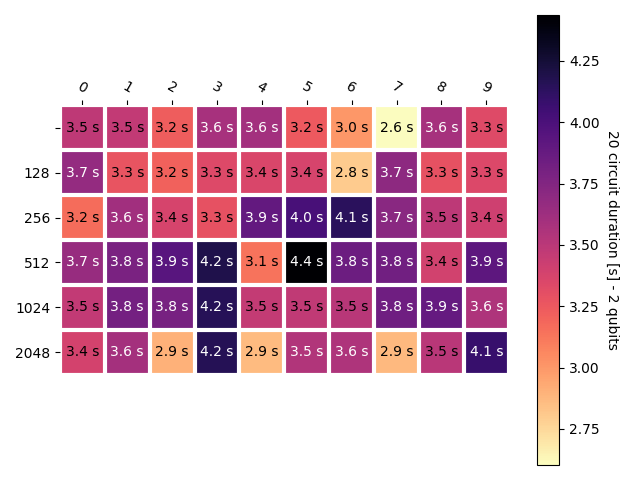
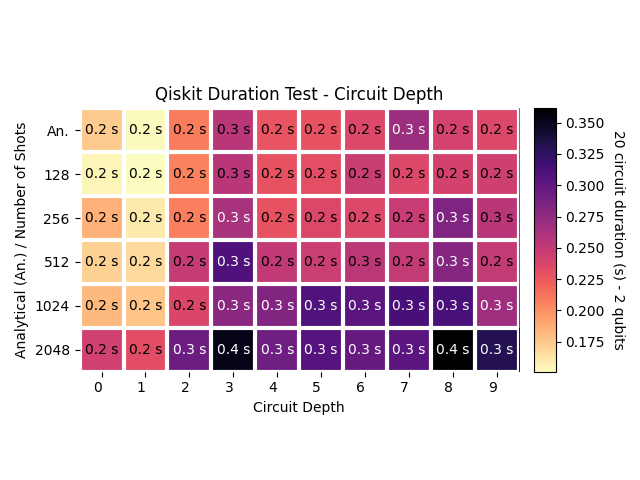
Ausführung um Grafik zu erstellen

diff --git a/pennylane-test_duration_depth.py b/pennylane-test_duration_depth.py
@@ -37,7 +37,11 @@ for i, shots in enumerate(shots_list):
 
 fig, ax = plt.subplots()
 im, cbar = plot_util.heatmap(duration_matrix, shots_list, [d for d in range(depth)], ax=ax,
-                   cmap="magma_r", cbarlabel=f"{evals} circuit duration [s] - {qubits} qubits")
+                   cmap="magma_r", cbarlabel=f"{evals} circuit duration (s) - {qubits} qubits",
+                   axis_labels=("Circuit Depth", "Analytical (An.) / Number of Shots"),
+                   title="Pennylane Duration Test - Circuit Depth")
 texts = plot_util.annotate_heatmap(im, valfmt="{x:.1f} s")
 fig.tight_layout()
 plt.savefig(f"plots/pennylane_duration_depth_{qubits}_{depth}.png")
+#plt.savefig(f"testing.png")
+plt.close() #TODO: still not able to prevent file handle closed warning

diff --git a/qiskit-test_duration_depth.py b/qiskit-test_duration_depth.py
@@ -8,7 +8,7 @@ import plot_util
 shots_list = [None, *[2**s for s in range(7, 12)]]
 seed = 10000
 evals = 20
-evals = 2
+
 
 # -------------------------------------------------------------------------------------
 
@@ -45,6 +45,6 @@ im, cbar = plot_util.heatmap(duration_matrix, shots_list, [d for d in range(dept
                    title="Qiskit Duration Test - Circuit Depth")
 texts = plot_util.annotate_heatmap(im, valfmt="{x:.1f} s")
 fig.tight_layout()
-# plt.savefig(f"plots/duration_depth_{qubits}_{depth}.png")
-plt.savefig(f"testing.png")
+plt.savefig(f"plots/duration_depth_{qubits}_{depth}.png")
+#plt.savefig(f"testing.png")
 plt.close() #TODO: still not able to prevent file handle closed warning
